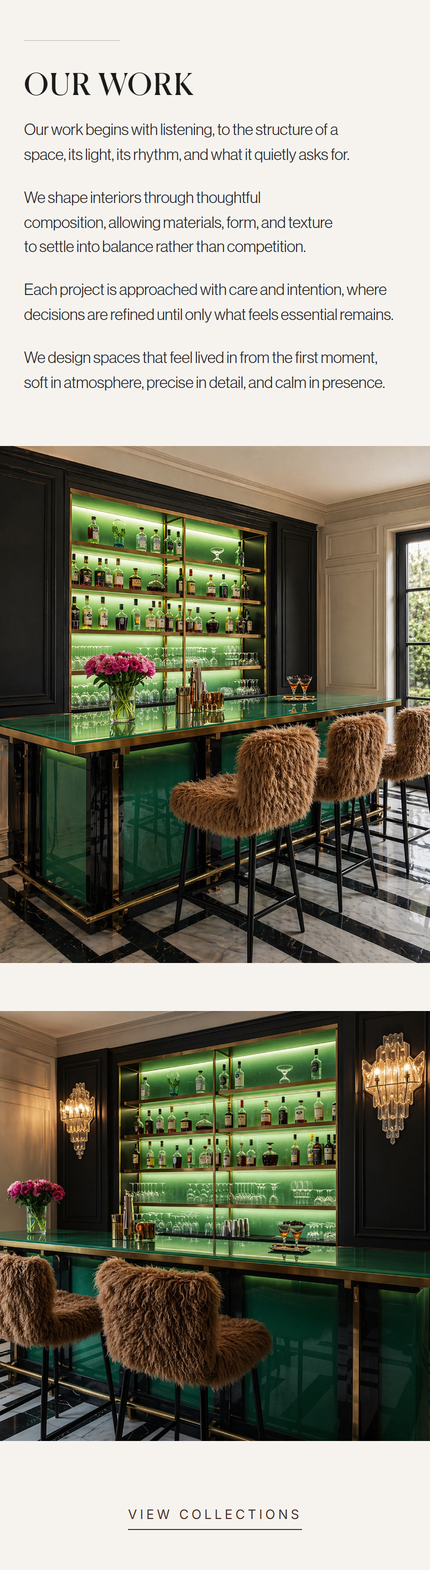
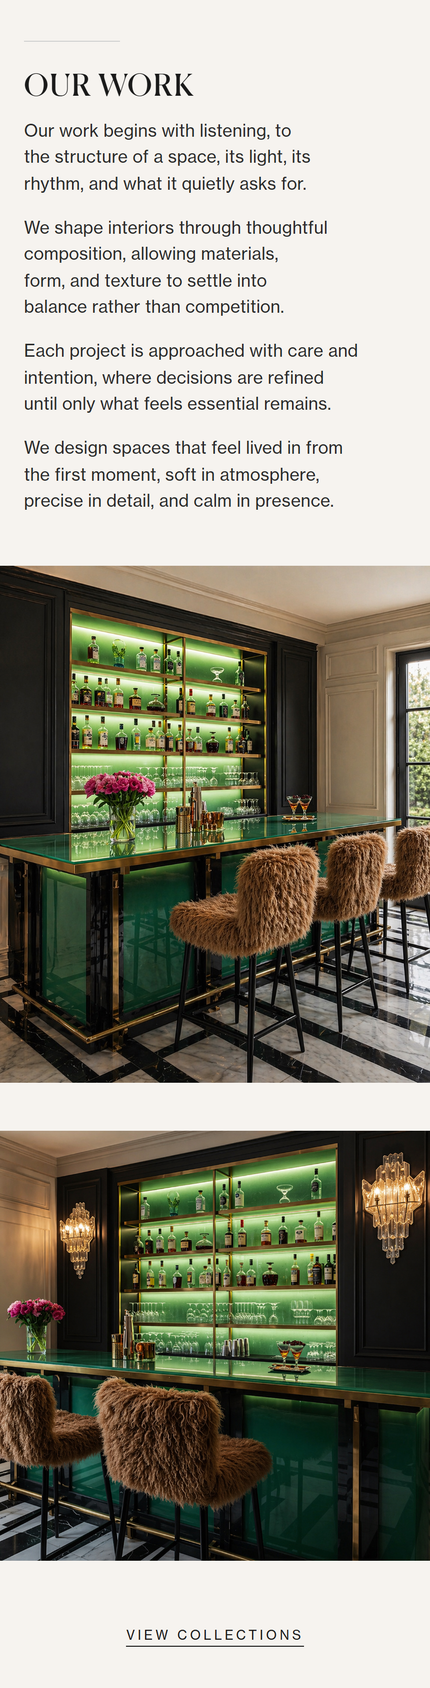
Mandy VeLUS: normalize all typography to four CSS tokens (h1, h2, p, cta)
Single source of truth for site-wide font sizes. Change one number at the
top of v5.html and the whole site scales.

Token spec at :root (matches Our Work mobile):
  --fs-h1: 30px (mobile) / 34px (desktop)
  --fs-h2: 30px (mobile) / 34px (desktop)
  --fs-p:  17px (mobile) / 17px (desktop)
  --fs-cta: 13px (mobile) / 13px (desktop)

H1 and H2 now share the Our Work title spec (30px Canela uppercase, .04em
letter-spacing). Paragraph and CTA sizes also taken from Our Work.

Every per-section font-size now reads from var(--fs-*). Removed all
hardcoded sizes from: nav menu links, eyebrow, statement h1/body,
section-head h2, lede, work-section, editorial h3/p, testimonies head/
blockquote/toggle/cite, finalcta eyebrow/h2/p/cta, footer brand/info/ig/
copyright, collections head/tile name+location, viewer meta/counter,
about identity h1+role, about bio, contact c-open/c-intro/inq-* /c-close,
slide-progress, submit-btn, sent-note, svc-head h1, svc-statement,
svc-trigger, svc-num, svc-body, process-wrap h2, p-num/p-title/p-desc.

Layout, padding, margin, color, opacity, line-height overrides preserved.
The mobile @media block is now layout-only.

diff --git a/Mandy_VeLUS_Design/v5.html b/Mandy_VeLUS_Design/v5.html
@@ -58,13 +58,35 @@
   --serif: 'Canela', 'Playfair Display', Georgia, serif;
   --ui: 'Inter', system-ui, sans-serif;
   --body: 'Neue Haas Grotesk', 'Helvetica Neue', Helvetica, Arial, sans-serif;
+
+  /* TYPOGRAPHY TOKENS, change these and the whole site scales */
+  /* H1 and H2 share the Our Work mobile spec: 30px Canela uppercase, .04em */
+  --fs-h1: 30px;
+  --fs-h2: 30px;
+  --fs-p: 17px;
+  --fs-cta: 13px;
+}
+@media(min-width:769px){
+  :root{
+    --fs-h1: 34px;
+    --fs-h2: 34px;
+    --fs-p: 17px;
+    --fs-cta: 13px;
+  }
 }
 *,*::before,*::after{box-sizing:border-box;margin:0;padding:0}
 html,body{background:#F6F3EF;color:var(--ink);-webkit-font-smoothing:antialiased}
-body{overflow-x:hidden;font-family:var(--body);font-weight:300;line-height:1.5;font-size:17px}
+body{overflow-x:hidden;font-family:var(--body);font-weight:400;line-height:1.55;font-size:var(--fs-p);color:#2B2B2B;letter-spacing:.01em}
 img{display:block;max-width:100%}
 a{color:inherit;text-decoration:none}
 button{font:inherit;color:inherit;background:none;border:0;cursor:pointer}
+
+/* TYPOGRAPHY BASE — every section inherits these */
+h1,.h1{font-family:var(--serif);font-weight:400;font-size:var(--fs-h1);line-height:1.15;letter-spacing:.04em;text-transform:uppercase;color:var(--ink)}
+h2,.h2{font-family:var(--serif);font-weight:400;font-size:var(--fs-h2);line-height:1.15;letter-spacing:.04em;text-transform:uppercase;color:var(--ink)}
+h3,.h3{font-family:var(--serif);font-weight:400;font-size:var(--fs-h2);line-height:1.2;letter-spacing:.01em;color:var(--ink)}
+p,.p{font-family:var(--body);font-weight:400;font-size:var(--fs-p);line-height:1.55;letter-spacing:.01em;color:#2B2B2B}
+.cta,.eyebrow,.label{font-family:var(--body);font-weight:400;font-size:var(--fs-cta);line-height:1;letter-spacing:.22em;text-transform:uppercase;color:var(--ink)}
 
 /* ENTRY */
 #entry{position:fixed;inset:0;background:#F6F3EF;z-index:1000;display:flex;align-items:center;justify-content:center;transition:opacity 1.1s ease}
@@ -100,7 +122,7 @@ body.locked .nav-trigger{color:var(--ink)!important}
 body.locked nav.top .nav-logo-dark{opacity:1!important;filter:none!important}
 body.locked nav.top .nav-logo-light{opacity:0!important}
 .menu-nav{display:flex;flex-direction:column;align-items:center;gap:32px}
-.menu-nav a{font-family:var(--body);font-weight:400;font-size:clamp(23.8px,2.89vw,37.4px);letter-spacing:.06em;opacity:0;transform:translateY(18px);transition:opacity .75s ease,transform .75s ease}
+.menu-nav a{font-family:var(--body);font-weight:400;font-size:var(--fs-h2);letter-spacing:.06em;opacity:0;transform:translateY(18px);transition:opacity .75s ease,transform .75s ease}
 .menu-overlay.open .menu-nav a{opacity:1;transform:translateY(0)}
 .menu-overlay.open .menu-nav a:nth-child(1){transition-delay:.06s}
 .menu-overlay.open .menu-nav a:nth-child(2){transition-delay:.12s}
@@ -118,8 +140,8 @@ body.locked nav.top .nav-logo-light{opacity:0!important}
 .fu.d4{transition-delay:.48s}
 
 /* UTILS */
-.eyebrow{font-family:var(--ui);text-transform:uppercase;font-size:12px;letter-spacing:.42em;font-weight:400;opacity:.65}
-.cta{font-family:var(--ui);text-transform:uppercase;font-size:12px;letter-spacing:.3em;font-weight:400;color:var(--choc);display:inline-block;padding-bottom:4px;border-bottom:.5px solid var(--choc);transition:opacity .4s ease}
+.eyebrow{font-family:var(--body);text-transform:uppercase;font-size:var(--fs-cta);letter-spacing:.22em;font-weight:400;opacity:.65}
+.cta{font-family:var(--body);text-transform:uppercase;font-size:var(--fs-cta);letter-spacing:.22em;font-weight:400;color:var(--ink);display:inline-block;padding-bottom:4px;border-bottom:.5px solid var(--ink);transition:opacity .4s ease}
 .cta:hover{opacity:.55}
 hr.rule{border:0;height:1px;background:#D0D0D0;width:100%;margin:0}
 .mbr{display:none}
@@ -147,8 +169,8 @@ section.statement{padding:40px 24px 40px;text-align:center;background:#F6F3EF}
 section.monogram + section.statement{padding-top:0}
 section.statement + section.work-section{padding-top:0}
 section.testimonies-section{padding-bottom:60px}
-section.statement h1{font-family:'Canela',var(--serif);font-weight:400;font-size:30px;letter-spacing:.22em;text-transform:uppercase;line-height:1.1}
-section.statement .body{max-width:none;width:100vw;margin:52px calc(50% - 50vw) 0;padding:0;text-align:center;font-size:16px;line-height:1.7;font-weight:300;overflow:hidden}
+section.statement h1{font-family:var(--serif);font-weight:400;font-size:var(--fs-h1);letter-spacing:.04em;text-transform:uppercase;line-height:1.1}
+section.statement .body{max-width:none;width:100vw;margin:52px calc(50% - 50vw) 0;padding:0;text-align:center;font-size:var(--fs-p);line-height:1.7;font-weight:400;overflow:hidden}
 section.statement .body p{white-space:nowrap;padding:0 12px}
 section.statement .body p+p{margin-top:14px}
 section.statement .cta-wrap{margin-top:35px}
@@ -158,13 +180,13 @@ section.statement .cta-wrap{margin-top:35px}
 section.work-section{padding:60px 0 60px;background:#F6F3EF}
 .section-head{max-width:1280px;margin:0 auto 60px;padding:0 40px}
 .section-head hr.rule{margin-bottom:28px}
-.section-head h2{font-family:var(--serif);font-weight:400;font-size:clamp(26px,2.6vw,38px);letter-spacing:.08em;text-transform:uppercase;line-height:1.15;margin-top:16px}
-.lede{max-width:600px;margin-top:36px;font-size:clamp(14px,1.1vw,17px);line-height:1.65;font-weight:300;text-wrap:balance}
+.section-head h2{font-family:var(--serif);font-weight:400;font-size:var(--fs-h2);letter-spacing:.04em;text-transform:uppercase;line-height:1.15;margin-top:16px}
+.lede{max-width:600px;margin-top:36px;font-size:var(--fs-p);line-height:1.55;font-weight:400;text-wrap:balance}
 .section-foot{max-width:1280px;margin:48px auto 0;padding:0 40px;text-align:center}
-.section-foot .cta{letter-spacing:.18em;font-size:14px}
+.section-foot .cta{letter-spacing:.22em;font-size:var(--fs-cta)}
 .work-section .section-head{max-width:760px;margin:0 auto 84px;padding:0 40px;text-align:center}
 .work-section .section-head{max-width:none;width:100vw;margin:0 calc(50% - 50vw) 80px;padding:0;text-align:center;overflow:hidden}
-.work-section .section-head .lede{max-width:none;margin-top:28px;padding:0 12px;font-size:clamp(14px,1.1vw,17px);line-height:1.7;font-weight:300;white-space:nowrap}
+.work-section .section-head .lede{max-width:none;margin-top:28px;padding:0 12px;font-size:var(--fs-p);line-height:1.55;font-weight:400;white-space:nowrap}
 .work-section .section-head .lede + .lede{margin-top:14px}
 
 /* OUR WORK — exactly 2 full-width images */
@@ -176,58 +198,58 @@ section.work-section{padding:60px 0 60px;background:#F6F3EF}
 section.editorial{background:var(--editorial)!important;padding:120px 40px}
 section.editorial .wrap{max-width:1180px;margin:0 auto;display:grid;grid-template-columns:1fr 1fr;gap:100px;align-items:center}
 section.editorial .eyebrow{color:#2A1E1A;opacity:.75}
-section.editorial h3{font-family:var(--serif);font-size:clamp(24px,2.4vw,36px);font-weight:400;margin-top:22px;color:#2A1E1A;line-height:1.3}
-section.editorial p{margin-top:24px;font-size:clamp(8.4px,1.32vw,20.4px);line-height:1.85;color:#2A1E1A;opacity:.9;font-weight:300}
+section.editorial h3{font-family:var(--serif);font-size:var(--fs-h2);font-weight:400;margin-top:22px;color:#2A1E1A;line-height:1.2;letter-spacing:.01em;text-transform:none}
+section.editorial p{margin-top:24px;font-size:var(--fs-p);line-height:1.55;color:#2A1E1A;opacity:.9;font-weight:400;letter-spacing:.01em}
 section.editorial .img{align-self:stretch;width:100%;height:auto;margin:-120px 0;background-size:cover;background-position:center}
 @media(max-width:860px){section.editorial{padding:60px 52px}section.editorial .wrap{grid-template-columns:1fr;gap:50px}section.editorial h3{margin-top:0}section.editorial .img{aspect-ratio:4/5;align-self:auto;height:auto;margin:0 -52px;width:calc(100% + 104px)}}
 
 /* TESTIMONIES */
 section.testimonies-section{padding:60px 0;background:#F6F3EF}
 .testimonies-head{max-width:720px;margin:0 auto 48px;padding:0 40px;text-align:center}
-.testimonies-head h2{font-family:var(--serif);font-weight:400;font-size:34px;letter-spacing:.18em;text-transform:uppercase;color:#1A1A1A;margin:0 0 20px;line-height:1.1}
+.testimonies-head h2{font-family:var(--serif);font-weight:400;font-size:var(--fs-h2);letter-spacing:.04em;text-transform:uppercase;color:#1A1A1A;margin:0 0 20px;line-height:1.15}
 .testimonies-head .rule{margin:0 auto;width:48px;height:1px;background:#D0D0D0;border:0}
 .testimonies{max-width:640px;margin:0 auto;padding:0 54px;text-align:center}
-.testimonies blockquote{font-family:var(--serif);font-weight:400;font-size:23px;line-height:1.55;color:#1A1A1A}
+.testimonies blockquote{font-family:var(--serif);font-weight:400;font-size:var(--fs-p);line-height:1.55;color:#1A1A1A}
 .testimonies .t-short,.testimonies .t-full{display:grid;transition:grid-template-rows .6s cubic-bezier(0.22,1,0.36,1),opacity .45s ease}
 .testimonies .t-short>.t-inner,.testimonies .t-full>.t-inner{overflow:hidden;min-height:0}
 .testimonies .t-short{grid-template-rows:1fr;opacity:1}
 .testimonies .t-full{grid-template-rows:0fr;opacity:0}
 .testimonies .t.open .t-short{grid-template-rows:0fr;opacity:0}
 .testimonies .t.open .t-full{grid-template-rows:1fr;opacity:1;transition:grid-template-rows .65s cubic-bezier(0.22,1,0.36,1),opacity .45s ease .12s}
-.t-toggle{display:inline-block;margin-top:32px;font-family:var(--body);font-size:15px;font-weight:500;letter-spacing:.18em;text-transform:uppercase;color:#1A1A1A;opacity:.85;padding:0 16px 6px;border:0;border-bottom:1px solid rgba(26,26,26,.45);cursor:pointer;transition:opacity .3s ease;min-width:160px}
+.t-toggle{display:inline-block;margin-top:32px;font-family:var(--body);font-size:var(--fs-cta);font-weight:400;letter-spacing:.22em;text-transform:uppercase;color:#1A1A1A;opacity:.85;padding:0 16px 6px;border:0;border-bottom:1px solid rgba(26,26,26,.45);cursor:pointer;transition:opacity .3s ease;min-width:160px}
 .t-toggle:hover{opacity:1}
 .t-toggle-icon{display:inline-block;margin-right:4px}
-.testimonies cite{display:block;margin-top:32px;font-family:var(--body);font-weight:500;font-style:normal;font-size:15px;letter-spacing:.22em;text-transform:uppercase;color:#1A1A1A;opacity:.7}
+.testimonies cite{display:block;margin-top:32px;font-family:var(--body);font-weight:400;font-style:normal;font-size:var(--fs-cta);letter-spacing:.22em;text-transform:uppercase;color:#1A1A1A;opacity:.7}
 .testimonies cite .t-name,.testimonies cite .t-loc{display:block}
 .testimonies cite .t-loc{margin-top:10px}
 .testimonies .t+.t{margin-top:80px;padding-top:80px;border-top:1px solid #D0D0D0}
 
 /* FINAL CTA */
 section.finalcta{padding:100px 24px 100px;text-align:center;background:#F6F3EF;border-top:1px solid #D0D0D0}
-section.finalcta .eyebrow{font-family:var(--body);font-weight:500;font-size:13px;letter-spacing:.28em;text-transform:uppercase;color:#2B2B2B;opacity:.85;margin:0 0 16px}
+section.finalcta .eyebrow{font-family:var(--body);font-weight:400;font-size:var(--fs-cta);letter-spacing:.22em;text-transform:uppercase;color:#2B2B2B;opacity:.85;margin:0 0 16px}
 section.finalcta .eyebrow::after{content:"";display:block;width:40px;height:1px;background:#D0D0D0;margin:16px auto 0}
-section.finalcta h2{font-family:var(--serif);font-weight:400;font-size:32px;letter-spacing:.1em;text-transform:uppercase;line-height:1.15;margin:28px 0 0}
-section.finalcta p{max-width:560px;margin:28px auto 0;padding:0 24px;text-align:center;font-family:var(--body);font-size:18px;line-height:1.6;color:#2B2B2B;font-weight:400;text-wrap:balance}
+section.finalcta h2{font-family:var(--serif);font-weight:400;font-size:var(--fs-h2);letter-spacing:.04em;text-transform:uppercase;line-height:1.15;margin:28px 0 0}
+section.finalcta p{max-width:560px;margin:28px auto 0;padding:0 24px;text-align:center;font-family:var(--body);font-size:var(--fs-p);line-height:1.55;color:#2B2B2B;font-weight:400;text-wrap:balance}
 section.finalcta .cta-wrap{margin-top:50px}
-section.finalcta .cta{font-family:var(--body);font-size:16px;letter-spacing:.28em;font-weight:500}
+section.finalcta .cta{font-family:var(--body);font-size:var(--fs-cta);letter-spacing:.22em;font-weight:400}
 
 /* FOOTER — centered, identical across all pages */
 footer{padding:80px 40px 40px;border-top:1px solid #D0D0D0;background:#F6F3EF}
 footer .wrap{max-width:720px;margin:0 auto;text-align:center}
-footer .footer-brand{font-family:var(--serif);font-size:25px;font-weight:400;letter-spacing:.22em;text-transform:uppercase;color:#1A1A1A;margin-bottom:28px;line-height:1.1}
+footer .footer-brand{font-family:var(--serif);font-size:var(--fs-h2);font-weight:400;letter-spacing:.04em;text-transform:uppercase;color:#1A1A1A;margin-bottom:28px;line-height:1.15}
 footer .footer-info{display:flex;flex-direction:column;align-items:center;gap:18px}
-footer .footer-info .line{font-family:var(--body);font-size:17px;line-height:1.5;color:#2B2B2B;opacity:.88}
+footer .footer-info .line{font-family:var(--body);font-size:var(--fs-p);line-height:1.55;color:#2B2B2B;opacity:.88}
 footer .footer-info a.line:hover{opacity:1}
 footer .footer-ig{margin-top:30px}
-footer .footer-ig a{font-family:var(--body);font-size:18px;line-height:1.5;color:#1A1A1A;font-weight:500;letter-spacing:.01em;opacity:.95}
+footer .footer-ig a{font-family:var(--body);font-size:var(--fs-p);line-height:1.55;color:#1A1A1A;font-weight:500;letter-spacing:.01em;opacity:.95}
 footer .footer-ig a:hover{opacity:1}
-footer .copyright{font-family:var(--body);font-size:13px;letter-spacing:.01em;color:#2B2B2B;opacity:.55;margin-top:42px;padding-top:24px;border-top:1px solid #D0D0D0}
-@media(max-width:768px){footer{padding:60px 24px 40px}footer .footer-brand{font-size:24px;letter-spacing:.18em}}
+footer .copyright{font-family:var(--body);font-size:var(--fs-cta);letter-spacing:.04em;color:#2B2B2B;opacity:.55;margin-top:42px;padding-top:24px;border-top:1px solid #D0D0D0;text-transform:none}
+@media(max-width:768px){footer{padding:60px 24px 40px}}
 
 /* COLLECTIONS */
 #page-collections{padding:88px 0 0;background:#F6F3EF}
 .coll-head{text-align:center;padding:60px 24px 60px}
-.coll-head h1{font-family:var(--serif);font-weight:400;font-size:clamp(16px,1.8vw,24px);letter-spacing:.44em;text-transform:uppercase}
+.coll-head h1{font-family:var(--serif);font-weight:400;font-size:var(--fs-h1);letter-spacing:.04em;text-transform:uppercase}
 .coll-feed{display:flex;flex-direction:column;gap:60px;padding:0}
 .coll-item{position:relative;width:100%;height:100vh;min-height:640px;overflow:hidden;cursor:pointer;background:#1e1612}
 .coll-item .img{position:absolute;inset:0;background-size:cover;background-position:center;transition:transform 2s cubic-bezier(.2,.7,.25,1)}
@@ -235,8 +257,8 @@ footer .copyright{font-family:var(--body);font-size:13px;letter-spacing:.01em;co
 .coll-item:hover .img{transform:scale(1.015)}
 .coll-item .ttl{position:absolute;left:40px;bottom:88px;color:#FFFFFF;opacity:0;transform:translateY(8px);transition:opacity .4s ease,transform .4s ease;max-width:70%;z-index:2;text-shadow:0 1px 8px rgba(0,0,0,.35)}
 .coll-item:hover .ttl,.coll-item.tap .ttl{opacity:1;transform:translateY(0)}
-.coll-item .ttl .name{font-family:var(--serif);font-weight:400;font-size:clamp(20px,1.6vw,22px);letter-spacing:.08em;text-transform:uppercase;color:#FFFFFF}
-.coll-item .ttl .loc{font-family:var(--body);font-size:clamp(12px,0.95vw,13px);letter-spacing:.18em;text-transform:uppercase;margin-top:7px;opacity:.85;font-weight:300;color:#FFFFFF}
+.coll-item .ttl .name{font-family:var(--serif);font-weight:400;font-size:var(--fs-h2);letter-spacing:.04em;text-transform:uppercase;color:#FFFFFF}
+.coll-item .ttl .loc{font-family:var(--body);font-size:var(--fs-cta);letter-spacing:.22em;text-transform:uppercase;margin-top:7px;opacity:.85;font-weight:400;color:#FFFFFF}
 @media(max-width:700px){.coll-item{height:76vh}.coll-item .ttl{left:28px;bottom:80px;opacity:1;transform:translateY(0)}}
 
 /* VIEWER */
@@ -248,9 +270,9 @@ footer .copyright{font-family:var(--body);font-size:13px;letter-spacing:.01em;co
 #viewer .close{position:absolute;top:44px;right:56px;font-family:var(--ui);font-size:9px;letter-spacing:.34em;text-transform:uppercase;color:#EDE8E3;opacity:.7;z-index:3;transition:opacity .3s ease}
 #viewer .close:hover{opacity:1}
 #viewer .meta{position:absolute;top:60px;left:56px;color:#EDE8E3;z-index:3;opacity:1}
-#viewer .meta .n{font-family:var(--serif);font-size:clamp(22px,1.8vw,24px);letter-spacing:-0.015em;text-transform:uppercase;font-weight:400;color:#EDE8E3}
-#viewer .meta .l{font-family:var(--body);font-size:13px;letter-spacing:.08em;text-transform:uppercase;margin-top:8px;opacity:.7;font-weight:400;color:#EDE8E3}
-#viewer .counter{position:absolute;bottom:32px;left:50%;transform:translateX(-50%);color:#EDE8E3;font-family:var(--body);font-size:16px;letter-spacing:.18em;z-index:3;opacity:.85;font-weight:400}
+#viewer .meta .n{font-family:var(--serif);font-size:var(--fs-h2);letter-spacing:.04em;text-transform:uppercase;font-weight:400;color:#EDE8E3}
+#viewer .meta .l{font-family:var(--body);font-size:var(--fs-cta);letter-spacing:.22em;text-transform:uppercase;margin-top:8px;opacity:.7;font-weight:400;color:#EDE8E3}
+#viewer .counter{position:absolute;bottom:32px;left:50%;transform:translateX(-50%);color:#EDE8E3;font-family:var(--body);font-size:var(--fs-cta);letter-spacing:.22em;z-index:3;opacity:.85;font-weight:400}
 #viewer .arrow{display:none}
 @media(max-width:700px){
   #viewer .slide{padding:140px 20px 88px}
@@ -263,13 +285,13 @@ footer .copyright{font-family:var(--body);font-size:13px;letter-spacing:.01em;co
 .about-hero{width:100%;height:92vh;min-height:640px;position:relative;overflow:hidden;background:#1e1612}
 .about-hero .img{position:absolute;inset:0;background-size:cover;background-position:center 28%}
 .about-identity{padding:60px 24px 0;max-width:600px;margin:0 auto;text-align:left}
-.about-identity h1{font-family:var(--serif);font-size:clamp(34px,3.2vw,44px);font-weight:400;margin:0 0 16px;line-height:1.1}
-.about-identity .role{margin:0;font-family:var(--body);font-weight:500;font-size:12px;letter-spacing:.24em;text-transform:uppercase;opacity:.65}
+.about-identity h1{font-family:var(--serif);font-size:var(--fs-h1);font-weight:400;margin:0 0 16px;line-height:1.15;letter-spacing:.04em;text-transform:uppercase}
+.about-identity .role{margin:0;font-family:var(--body);font-weight:400;font-size:var(--fs-cta);letter-spacing:.22em;text-transform:uppercase;opacity:.65}
 .about-identity .role::after{content:"";display:block;width:48px;height:1px;background:#D0D0D0;margin:16px 0 24px}
 .about-bio{max-width:600px;margin:0 auto;padding:0 24px 60px;text-align:left}
-.about-bio p{font-family:var(--body);font-size:18px;line-height:1.75;color:#2B2B2B;margin-top:28px;font-weight:400;letter-spacing:0}
+.about-bio p{font-family:var(--body);font-size:var(--fs-p);line-height:1.55;color:#2B2B2B;margin-top:28px;font-weight:400;letter-spacing:.01em}
 .about-bio p:first-child{margin-top:0}
-.about-transition{max-width:720px;margin:0 auto 80px;padding:0 40px;font-family:var(--serif);font-size:clamp(8.4px,1.32vw,20.4px);line-height:1.65;opacity:.68;text-align:center}
+.about-transition{max-width:720px;margin:0 auto 80px;padding:0 40px;font-family:var(--serif);font-size:var(--fs-p);line-height:1.55;opacity:.68;text-align:center}
 .about-anchor{width:100%;aspect-ratio:16/9;position:relative;overflow:hidden;background:#1e1612}
 .about-anchor .img{position:absolute;inset:0;background-size:cover;background-position:center}
 .about-exit{padding:0 24px;text-align:center;background:#F6F3EF}
@@ -278,23 +300,23 @@ footer .copyright{font-family:var(--body);font-size:13px;letter-spacing:.01em;co
 /* CONTACT — editorial v9 */
 #page-contact{padding-top:88px;padding-bottom:120px;background:#F6F3EF}
 .c-open{padding:60px 40px 0;max-width:720px;margin:0 auto;text-align:center}
-.c-open h1{font-family:var(--serif);font-size:32px;font-weight:400;letter-spacing:.08em;text-transform:uppercase;line-height:1.15}
-.c-open .lede{margin-top:24px;font-family:var(--body);font-size:18px;line-height:1.7;color:#2B2B2B;font-weight:400}
-.c-intro{max-width:720px;margin:18px auto 0;padding:0 40px;font-family:var(--body);font-size:18px;line-height:1.7;color:#2B2B2B;font-weight:400;text-align:center}
+.c-open h1{font-family:var(--serif);font-size:var(--fs-h1);font-weight:400;letter-spacing:.04em;text-transform:uppercase;line-height:1.15}
+.c-open .lede{margin-top:24px;font-family:var(--body);font-size:var(--fs-p);line-height:1.55;color:#2B2B2B;font-weight:400}
+.c-intro{max-width:720px;margin:18px auto 0;padding:0 40px;font-family:var(--body);font-size:var(--fs-p);line-height:1.55;color:#2B2B2B;font-weight:400;text-align:center}
 .inquiry{max-width:720px;margin:48px auto 0;padding:0 40px;display:flex;flex-direction:column}
 .inq-field{padding-top:40px}
 .inq-field:first-child{padding-top:0}
-.inq-label{font-family:var(--body);font-size:14px;letter-spacing:.12em;text-transform:uppercase;color:#2B2B2B;opacity:.9;font-weight:500;margin-bottom:12px;display:block}
-.inq-sublabel{font-family:var(--body);font-size:15px;line-height:1.65;color:#2B2B2B;opacity:.78;font-weight:400;margin-bottom:14px;margin-top:-4px}
+.inq-label{font-family:var(--body);font-size:var(--fs-cta);letter-spacing:.22em;text-transform:uppercase;color:#2B2B2B;opacity:.9;font-weight:400;margin-bottom:12px;display:block}
+.inq-sublabel{font-family:var(--body);font-size:var(--fs-p);line-height:1.55;color:#2B2B2B;opacity:.78;font-weight:400;margin-bottom:14px;margin-top:-4px}
 .inq-field input[type=text],
 .inq-field input[type=email],
 .inq-field input[type=tel],
-.inq-field textarea{width:100%;background:transparent;border:0;border-bottom:1px solid rgba(26,26,26,.15);padding:12px 0;font-size:16px;font-weight:400;color:#2B2B2B;outline:none;font-family:var(--body);transition:border-color .4s ease}
+.inq-field textarea{width:100%;background:transparent;border:0;border-bottom:1px solid rgba(26,26,26,.15);padding:12px 0;font-size:var(--fs-p);font-weight:400;color:#2B2B2B;outline:none;font-family:var(--body);transition:border-color .4s ease}
 .inq-field input:focus,.inq-field textarea:focus{border-bottom-color:var(--ink)}
 .inq-field textarea{resize:vertical;min-height:140px;line-height:1.72}
 .inq-field input::placeholder,.inq-field textarea::placeholder{color:#8A8A8A;opacity:1;font-weight:400;font-style:italic}
-.c-close{max-width:720px;margin:100px auto 0;padding:0 40px;font-family:var(--body);font-size:18px;line-height:1.7;color:#2B2B2B;font-weight:400}
-.slide-progress{max-width:720px;margin:24px auto 0;padding:0 40px;font-family:var(--body);font-size:13px;letter-spacing:.24em;text-transform:uppercase;opacity:.55;text-align:center}
+.c-close{max-width:720px;margin:100px auto 0;padding:0 40px;font-family:var(--body);font-size:var(--fs-p);line-height:1.55;color:#2B2B2B;font-weight:400}
+.slide-progress{max-width:720px;margin:24px auto 0;padding:0 40px;font-family:var(--body);font-size:var(--fs-cta);letter-spacing:.22em;text-transform:uppercase;opacity:.55;text-align:center}
 .slide-progress .sep{margin:0 8px;opacity:.6}
 .slide{display:none}
 .slide.active{display:block;animation:slideFade .6s ease both}
@@ -302,17 +324,17 @@ footer .copyright{font-family:var(--body);font-size:13px;letter-spacing:.01em;co
 .slide-actions{margin-top:48px;text-align:center}
 .c-submit{max-width:720px;margin:0 auto;padding:0 40px;text-align:center}
 .sent-note:empty{margin-top:0}
-.submit-btn{color:var(--choc);background:none;border:none;border-bottom:1px solid var(--choc);font-family:var(--body);font-size:16px;letter-spacing:.18em;font-weight:500;text-transform:uppercase;cursor:pointer;padding:6px 0 8px;transition:opacity .3s ease}
+.submit-btn{color:var(--ink);background:none;border:none;border-bottom:1px solid var(--ink);font-family:var(--body);font-size:var(--fs-cta);letter-spacing:.22em;font-weight:400;text-transform:uppercase;cursor:pointer;padding:6px 0 8px;transition:opacity .3s ease}
 .submit-btn:hover{opacity:.55}
-.sent-note{margin-top:28px;font-family:var(--body);font-size:15px;line-height:1.65;opacity:0;transition:opacity .6s ease;font-weight:400;color:#2B2B2B}
+.sent-note{margin-top:28px;font-family:var(--body);font-size:var(--fs-p);line-height:1.55;opacity:0;transition:opacity .6s ease;font-weight:400;color:#2B2B2B}
 .sent-note.show{opacity:.82}
 
 /* SERVICES */
 #page-services{padding:88px 0 0;background:#F6F3EF}
 .svc-head{padding:60px 0 0;max-width:none;width:100%;margin:0;text-align:center}
-.svc-head h1{font-family:var(--serif);font-weight:400;font-size:36px;letter-spacing:.08em;text-transform:uppercase;line-height:1.2;padding:0 24px}
+.svc-head h1{font-family:var(--serif);font-weight:400;font-size:var(--fs-h1);letter-spacing:.04em;text-transform:uppercase;line-height:1.15;padding:0 24px}
 .svc-statement{max-width:600px;width:auto;margin:48px auto 0;padding:0 24px;text-align:left;overflow:visible}
-.svc-statement p{font-family:var(--body);font-size:18px;line-height:1.7;color:#2B2B2B;font-weight:400;letter-spacing:0;margin-top:24px;padding:0;white-space:normal}
+.svc-statement p{font-family:var(--body);font-size:var(--fs-p);line-height:1.55;color:#2B2B2B;font-weight:400;letter-spacing:.01em;margin-top:24px;padding:0;white-space:normal}
 .svc-statement p:first-child{margin-top:0}
 .svc-list{max-width:720px;margin:60px auto 0;padding:0 40px}
 #page-services section.monogram{padding:60px 24px 60px}
@@ -321,23 +343,23 @@ section.monogram + .svc-list{margin-top:0}
 .svc-item{border-top:0;position:relative}
 .svc-item::before{content:"";position:absolute;top:0;left:17.5%;right:17.5%;height:1px;background:#D0D0D0}
 .svc-item:last-child::after{content:"";position:absolute;bottom:0;left:17.5%;right:17.5%;height:1px;background:#D0D0D0}
-.svc-trigger{width:100%;text-align:left;padding:32px 0;font-family:var(--serif);font-size:26px;font-weight:400;letter-spacing:.02em;color:var(--ink);cursor:pointer;display:flex;align-items:baseline;gap:28px}
-.svc-num{font-family:var(--body);font-size:14px;letter-spacing:.04em;opacity:.45;font-weight:400;flex-shrink:0}
+.svc-trigger{width:100%;text-align:left;padding:32px 0;font-family:var(--serif);font-size:var(--fs-h2);font-weight:400;letter-spacing:.01em;color:var(--ink);cursor:pointer;display:flex;align-items:baseline;gap:28px;text-transform:none}
+.svc-num{font-family:var(--body);font-size:var(--fs-cta);letter-spacing:.04em;opacity:.45;font-weight:400;flex-shrink:0}
 .svc-trigger::after{content:"+";margin-left:auto;font-family:var(--body);font-size:18px;font-weight:300;opacity:.55;line-height:1;transition:transform .4s ease,opacity .3s ease,content 0s}
 .svc-trigger:hover::after{opacity:.9}
 .svc-item.open .svc-trigger::after{content:"\2212";opacity:.9}
-.svc-body{font-size:18px;line-height:1.6;font-weight:400;opacity:0;max-height:0;overflow:hidden;padding-bottom:0;max-width:640px;transition:max-height .5s ease,opacity .4s ease,padding-bottom .4s ease;text-wrap:balance}
+.svc-body{font-size:var(--fs-p);line-height:1.55;font-weight:400;opacity:0;max-height:0;overflow:hidden;padding-bottom:0;max-width:640px;transition:max-height .5s ease,opacity .4s ease,padding-bottom .4s ease;text-wrap:balance}
 .svc-item.open .svc-body{opacity:1;max-height:400px;padding-bottom:36px}
 section.visual-break{padding:0;overflow:hidden}
 section.visual-break img{width:100%;display:block;object-fit:cover}
 .process-wrap{max-width:720px;margin:0 auto;padding:60px 40px 40px}
-.process-wrap h2{font-family:var(--serif);font-weight:400;font-size:clamp(20px,2vw,28px);letter-spacing:.2em;text-transform:uppercase;margin-bottom:34px}
+.process-wrap h2{font-family:var(--serif);font-weight:400;font-size:var(--fs-h2);letter-spacing:.04em;text-transform:uppercase;margin-bottom:34px;line-height:1.15}
 .process-step{padding:28px 0;border-top:0;position:relative}
 .process-step::before{content:"";position:absolute;top:0;left:17.5%;right:17.5%;height:1px;background:#D0D0D0}
 .process-step:last-child::after{content:"";position:absolute;bottom:0;left:17.5%;right:17.5%;height:1px;background:#D0D0D0}
-.p-num{font-family:var(--ui);font-size:11px;letter-spacing:.32em;opacity:.38;margin-bottom:22px}
-.p-title{font-family:var(--serif);font-size:clamp(18px,1.7vw,24px);font-weight:400;letter-spacing:.04em;margin-bottom:4px}
-.p-desc{font-size:17px;line-height:1.6;font-weight:300;opacity:.78;max-width:640px;text-wrap:balance}
+.p-num{font-family:var(--body);font-size:var(--fs-cta);letter-spacing:.04em;opacity:.45;margin-bottom:14px;font-weight:400}
+.p-title{font-family:var(--serif);font-size:var(--fs-h2);font-weight:400;letter-spacing:.01em;margin-bottom:8px;line-height:1.2;text-transform:none}
+.p-desc{font-size:var(--fs-p);line-height:1.55;font-weight:400;opacity:.78;max-width:640px;text-wrap:balance;letter-spacing:.01em}
 
 /* PAGE ROUTING */
 .page{display:none}
@@ -346,37 +368,29 @@ body.locked{overflow:hidden}
 
 /* MOBILE READABILITY — allow paragraphs to wrap, raise type to readable floor */
 @media(max-width:768px){
+  /* All font-sizes inherit from the typography tokens at :root.
+     Only layout, alignment, padding, and color overrides remain. */
   section.statement .body p,
   section.finalcta p,
   .svc-statement p,
   .svc-head h1,
   .work-section .section-head .lede{white-space:normal}
   section.statement{text-align:left}
-  section.statement h1{font-size:28px;text-align:left;padding:0 24px;letter-spacing:.04em;white-space:nowrap}
-  section.statement .body{max-width:600px;width:auto;margin:28px auto 0;padding:0 24px;text-align:left;font-size:20px;line-height:1.65;color:#2B2B2B}
+  section.statement h1{text-align:left;padding:0 24px;white-space:nowrap}
+  section.statement .body{max-width:600px;width:auto;margin:28px auto 0;padding:0 24px;text-align:left;line-height:1.65;color:#2B2B2B}
   section.statement .body p{padding:0}
   section.statement .body p+p{margin-top:20px}
   section.statement .cta-wrap{max-width:600px;margin:35px auto 0;padding:0 24px;text-align:left}
   .work-section .section-head{max-width:600px;width:auto;margin:0 auto 40px;padding:0 24px;text-align:left}
   .work-section .section-head hr.rule{width:96px;margin:0 0 24px}
-  .work-section .section-head h2{font-size:34px;text-align:left;letter-spacing:.06em;margin-top:0}
+  .work-section .section-head h2{text-align:left;margin:0 0 4px}
+  .work-section .section-head .lede{text-align:left;color:#2B2B2B;margin-top:18px;padding:0;max-width:none}
   .work-section .section-head .lede + .lede{margin-top:18px}
   .svc-statement{max-width:640px;width:auto;margin:48px auto 0;padding:0 24px}
   .svc-statement p{padding:0;margin-top:18px}
   .svc-statement p:first-child{margin-top:0}
   .mbr{display:initial}
-  .svc-body,
-  .about-exit .s{font-size:14px}
-  .work-section .section-head .lede{font-size:17px;line-height:1.55;text-align:left;color:#2B2B2B;margin-top:18px;padding:0;max-width:none;letter-spacing:.01em}
-  .work-section .section-head h2{font-size:30px;letter-spacing:.04em;margin:0 0 4px}
-  .work-section .section-foot .cta{font-size:13px;letter-spacing:.22em}
-  .p-num{font-size:13px;letter-spacing:.04em;margin-bottom:14px;opacity:.4}
-  .p-title{font-size:26px;letter-spacing:.005em;margin-bottom:8px;line-height:1.2}
-  .p-desc{font-size:16px;line-height:1.55}
-  .svc-statement p{font-size:19px}
   .svc-head h1{padding:0 16px}
-  section.editorial h3{font-size:24px;line-height:1.22;letter-spacing:.01em}
-  section.editorial p{font-size:15px;line-height:1.55;letter-spacing:.012em}
 
   /* SYMMETRIC SECTION PADDING ON MOBILE */
   section.monogram{padding:40px 24px 40px}
